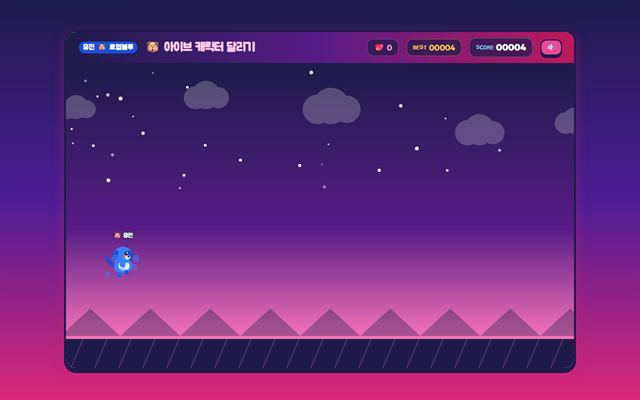
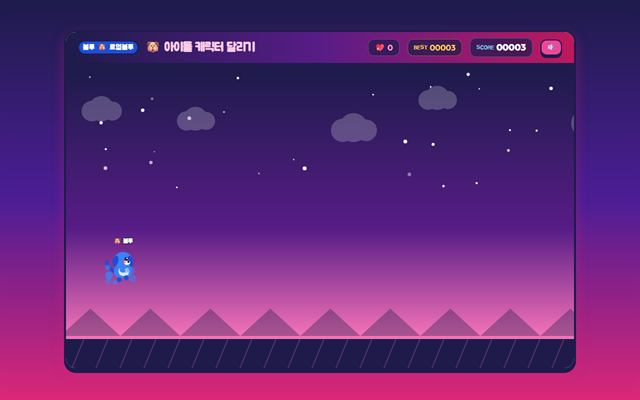
아이돌 공룡 달리기: 실존 그룹·멤버 이름을 캐릭터 이름으로 바꿈

diff --git a/games/idol-dino-run.html b/games/idol-dino-run.html
@@ -72,10 +72,10 @@
         <div class="bg-gradient-to-r from-indigo-950 via-purple-900 to-pink-700 text-white px-2.5 py-1.5 sm:px-6 sm:py-3 flex items-center justify-between gap-1.5 sm:gap-2 border-b-3 sm:border-b-4 border-indigo-950 z-10">
             <div class="flex items-center gap-1.5 sm:gap-3 min-w-0">
                 <span id="hud-char-badge" class="bg-pink-500 text-white text-[11px] sm:text-sm px-2 py-0.5 rounded-full border-2 border-indigo-950 font-black tracking-wider shrink-0">
-                    원영 🐰 체리핑크
+                    체리 🐰 체리핑크
                 </span>
                 <h1 id="hud-title" class="hidden sm:block text-lg sm:text-2xl font-black text-pink-200 tracking-tight truncate">
-                    🐰 아이브 캐릭터 달리기
+                    🐰 아이돌 캐릭터 달리기
                 </h1>
             </div>
 
@@ -120,10 +120,10 @@
                         IDOL ANIMAL CHARACTER EDITION
                     </div>
                     <h2 class="text-xl sm:text-4xl font-black text-pink-500 text-stroke mb-1">
-                        아이브 캐릭터 달리기
+                        아이돌 캐릭터 달리기
                     </h2>
                     <p class="text-slate-600 text-[11px] sm:text-sm mb-2.5 sm:mb-3 break-keep">
-                        아이브 멤버들의 <b>공식 상징 색깔과 동물 캐릭터</b>를 선택해 달려보세요!
+                        아이돌 친구들의 <b>상징 색깔과 동물 캐릭터</b>를 선택해 달려보세요!
                     </p>
 
                     <!-- 아이브 6인 캐릭터 선택 그리드 -->
@@ -133,7 +133,7 @@
                                 <span class="text-base sm:text-lg">🐰</span>
                                 <span class="text-[10px] sm:text-[11px] font-black px-1.5 sm:px-2 py-0.5 rounded-full text-white" style="background:#f43f5e;">체리핑크</span>
                             </div>
-                            <div class="font-black text-indigo-950 text-xs sm:text-sm">원영 (체리버니)</div>
+                            <div class="font-black text-indigo-950 text-xs sm:text-sm">체리 (체리버니)</div>
                             <div class="text-[10px] sm:text-[11px] text-pink-600 font-bold">💖 하트 점수 2배</div>
                         </button>
 
@@ -142,7 +142,7 @@
                                 <span class="text-base sm:text-lg">🐶</span>
                                 <span class="text-[10px] sm:text-[11px] font-black px-1.5 sm:px-2 py-0.5 rounded-full text-white" style="background:#2563eb;">로열블루</span>
                             </div>
-                            <div class="font-black text-indigo-950 text-xs sm:text-sm">유진 (블루퍼피)</div>
+                            <div class="font-black text-indigo-950 text-xs sm:text-sm">블루 (블루퍼피)</div>
                             <div class="text-[10px] sm:text-[11px] text-sky-600 font-bold">🚀 하이 점프 업</div>
                         </button>
 
@@ -151,7 +151,7 @@
                                 <span class="text-base sm:text-lg">🐿</span>
                                 <span class="text-[10px] sm:text-[11px] font-black px-1.5 sm:px-2 py-0.5 rounded-full text-white" style="background:#1e3a8a;">네이비</span>
                             </div>
-                            <div class="font-black text-indigo-950 text-xs sm:text-sm">가을 (네이비다람)</div>
+                            <div class="font-black text-indigo-950 text-xs sm:text-sm">네이비 (네이비다람)</div>
                             <div class="text-[10px] sm:text-[11px] text-indigo-700 font-bold">🔥 피버 충전 +25%</div>
                         </button>
 
@@ -160,7 +160,7 @@
                                 <span class="text-base sm:text-lg">🐥</span>
                                 <span class="text-[10px] sm:text-[11px] font-black px-1.5 sm:px-2 py-0.5 rounded-full text-slate-900" style="background:#4ade80;">파스텔그린</span>
                             </div>
-                            <div class="font-black text-indigo-950 text-xs sm:text-sm">레이 (그린병아리)</div>
+                            <div class="font-black text-indigo-950 text-xs sm:text-sm">그린 (그린병아리)</div>
                             <div class="text-[10px] sm:text-[11px] text-emerald-600 font-bold">⚡ 급강하 속도 업</div>
                         </button>
 
@@ -169,7 +169,7 @@
                                 <span class="text-base sm:text-lg">🐱</span>
                                 <span class="text-[10px] sm:text-[11px] font-black px-1.5 sm:px-2 py-0.5 rounded-full text-white" style="background:#f97316;">오렌지</span>
                             </div>
-                            <div class="font-black text-indigo-950 text-xs sm:text-sm">리즈 (치즈냥이)</div>
+                            <div class="font-black text-indigo-950 text-xs sm:text-sm">치즈 (치즈냥이)</div>
                             <div class="text-[10px] sm:text-[11px] text-orange-600 font-bold">🦘 공중 더블 점프</div>
                         </button>
 
@@ -178,7 +178,7 @@
                                 <span class="text-base sm:text-lg">🐯</span>
                                 <span class="text-[10px] sm:text-[11px] font-black px-1.5 sm:px-2 py-0.5 rounded-full text-slate-900" style="background:#facc15;">옐로우</span>
                             </div>
-                            <div class="font-black text-indigo-950 text-xs sm:text-sm">이서 (아기호랑이)</div>
+                            <div class="font-black text-indigo-950 text-xs sm:text-sm">옐로 (아기호랑이)</div>
                             <div class="text-[10px] sm:text-[11px] text-amber-600 font-bold">⏳ 피버 지속시간 연장</div>
                         </button>
                     </div>
@@ -189,7 +189,7 @@
                     </div>
 
                     <button id="btn-start" class="ive-btn w-full bg-gradient-to-r from-pink-500 to-purple-600 hover:from-pink-400 hover:to-purple-500 text-white text-lg sm:text-2xl font-black py-2.5 sm:py-3 rounded-2xl border-3 sm:border-4 border-indigo-950">
-                        ✨ 선택한 아이브 캐릭터로 출발!
+                        ✨ 선택한 캐릭터로 출발!
                     </button>
                 </div>
             </div>
@@ -328,7 +328,7 @@
         const IVE_MEMBERS = [
             {
                 id: 'wonyoung',
-                name: '원영',
+                name: '체리',
                 charTitle: '체리버니',
                 colorName: '체리핑크',
                 emoji: '🐰',
@@ -340,7 +340,7 @@
             },
             {
                 id: 'yujin',
-                name: '유진',
+                name: '블루',
                 charTitle: '블루퍼피',
                 colorName: '로열블루',
                 emoji: '🐶',
@@ -352,7 +352,7 @@
             },
             {
                 id: 'gaeul',
-                name: '가을',
+                name: '네이비',
                 charTitle: '네이비다람',
                 colorName: '네이비',
                 emoji: '🐿',
@@ -364,7 +364,7 @@
             },
             {
                 id: 'rei',
-                name: '레이',
+                name: '그린',
                 charTitle: '그린병아리',
                 colorName: '파스텔그린',
                 emoji: '🐥',
@@ -376,7 +376,7 @@
             },
             {
                 id: 'liz',
-                name: '리즈',
+                name: '치즈',
                 charTitle: '치즈냥이',
                 colorName: '오렌지',
                 emoji: '🐱',
@@ -388,7 +388,7 @@
             },
             {
                 id: 'leeseo',
-                name: '이서',
+                name: '옐로',
                 charTitle: '아기호랑이',
                 colorName: '옐로우',
                 emoji: '🐯',
@@ -487,7 +487,7 @@
             const badge = document.getElementById('hud-char-badge');
             badge.textContent = `${m.name} ${m.emoji} ${m.colorName}`;
             badge.style.backgroundColor = m.crest;
-            document.getElementById('hud-title').textContent = `${m.emoji} 아이브 캐릭터 달리기`;
+            document.getElementById('hud-title').textContent = `${m.emoji} 아이돌 캐릭터 달리기`;
             document.getElementById('fever-banner').textContent = `✨ ${m.name} (${m.charTitle}) 피버 타임! 무적 질주 ✨`;
         }
 
